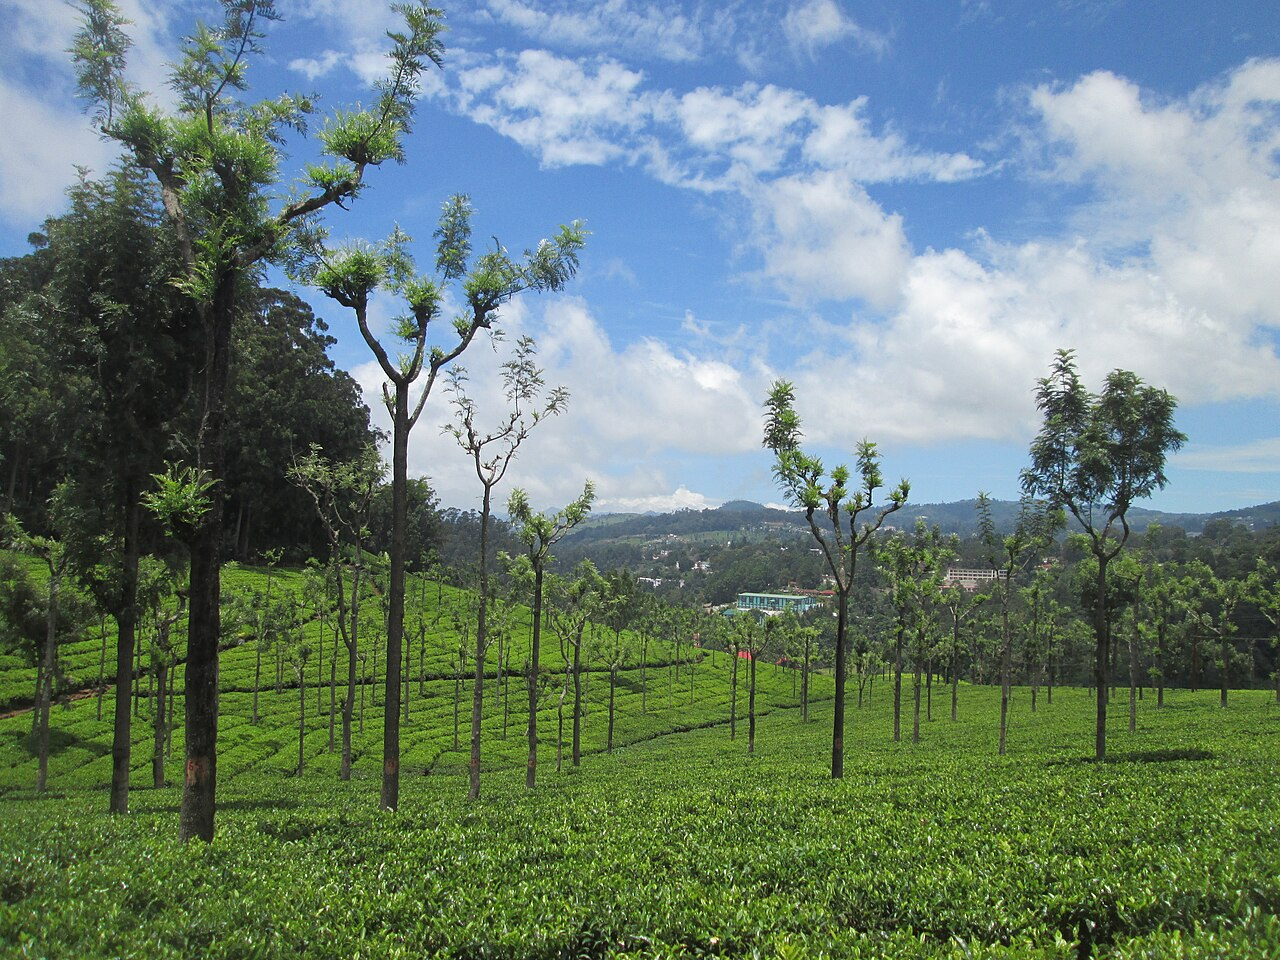
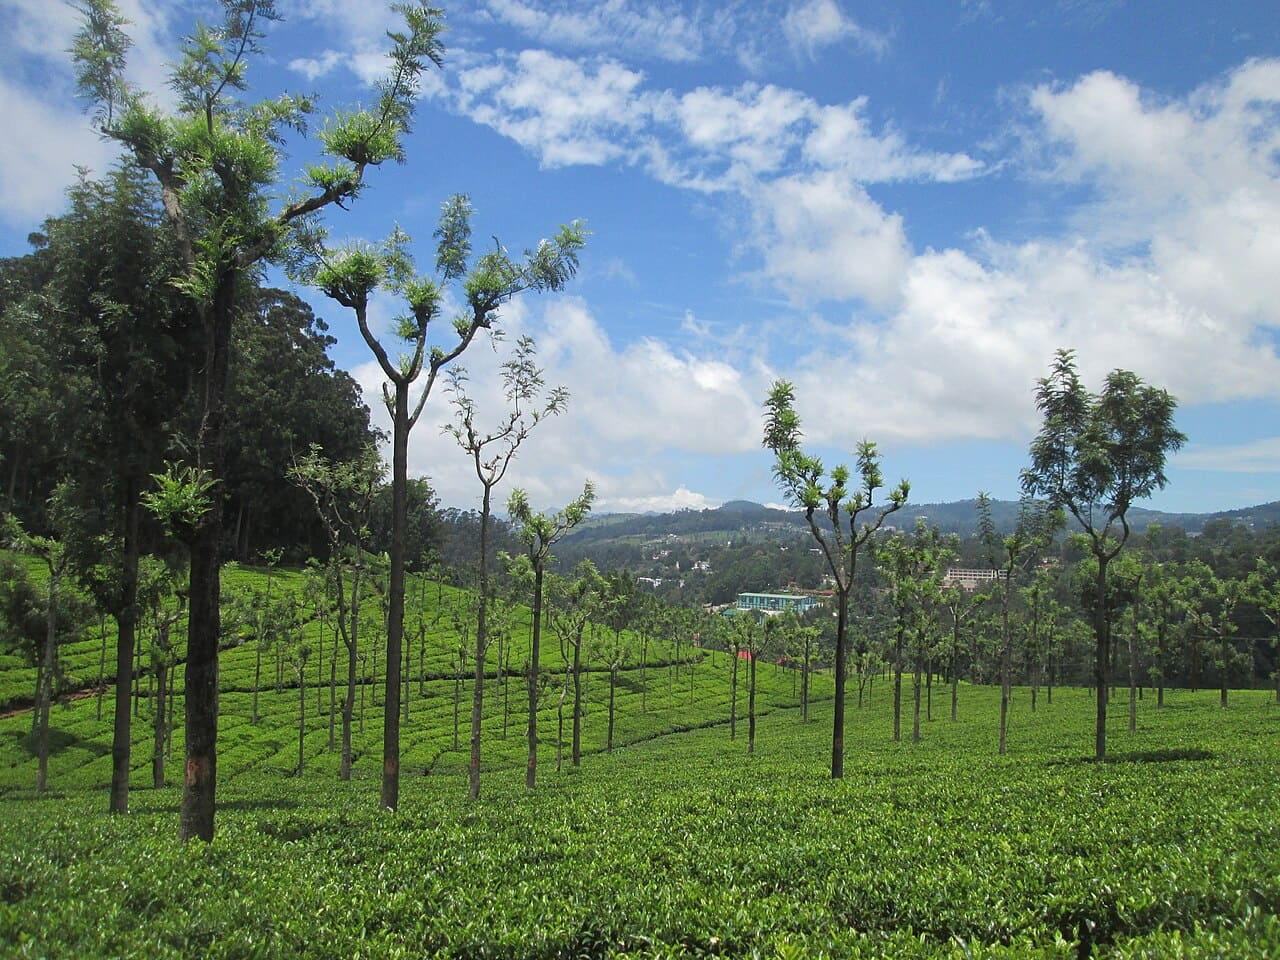
Add tour packages section with SEO route lists to homepage
Six destination cards (Madurai, Rameswaram, Chennai, Coimbatore,
Kerala, Trichy) with keyword-rich route lists; Kerala and Trichy
link to the booking form until their pages are ready.

Changed region(s): [[0.625, 0.5, 0.6562, 0.5312], [0.5312, 0.8125, 0.5625, 0.8438]]

diff --git a/index.html b/index.html
@@ -504,6 +504,162 @@
       </div>
     </section>
 
+    <!-- tour packages -->
+    <section class="mb-5" id="tour-packages">
+      <div class="container">
+        <h2 class="text-center mb-4">Our Tour Packages</h2>
+        <div class="row">
+          <!-- Madurai Tour Packages -->
+          <div class="col-md-4 mb-4">
+            <div class="card h-100">
+              <a href="https://maduraimurugantoursandtravels.com/madurai-to-rameshwaram-tour-package">
+                <img src="https://maduraimurugantoursandtravels.com/assets/images/madurai.jpg" class="card-img-top" alt="Madurai Tour Packages" />
+              </a>
+              <div class="card-body d-flex flex-column justify-content-between">
+                <div>
+                  <h5 class="card-title">
+                    <a href="https://maduraimurugantoursandtravels.com/madurai-to-rameshwaram-tour-package" style="color: inherit">Madurai Tour Packages</a>
+                  </h5>
+                  <p class="card-text mb-2">Popular tours and cab services from the temple city:</p>
+                  <ul class="card-text pl-3 mb-2">
+                    <li>Madurai to Rameswaram cab</li>
+                    <li>Madurai Meenakshi Amman Temple tour</li>
+                    <li>Madurai Airport to Rameswaram</li>
+                    <li>Madurai Railway Station to Rameswaram</li>
+                  </ul>
+                </div>
+                <a href="https://maduraimurugantoursandtravels.com/madurai-to-rameshwaram-tour-package">
+                  <button class="btn mt-2 w-100 bookNowButton">View Packages &rarr;</button>
+                </a>
+              </div>
+            </div>
+          </div>
+
+          <!-- Rameswaram Tour Packages -->
+          <div class="col-md-4 mb-4">
+            <div class="card h-100">
+              <a href="https://maduraimurugantoursandtravels.com/madurai-to-rameshwaram-tour-package">
+                <img src="https://maduraimurugantoursandtravels.com/assets/images/rameswaram.jpg" class="card-img-top" alt="Rameswaram Tour Packages" />
+              </a>
+              <div class="card-body d-flex flex-column justify-content-between">
+                <div>
+                  <h5 class="card-title">
+                    <a href="https://maduraimurugantoursandtravels.com/madurai-to-rameshwaram-tour-package" style="color: inherit">Rameswaram Tour Packages</a>
+                  </h5>
+                  <p class="card-text mb-2">Comfortable pilgrimage tours to the holy island:</p>
+                  <ul class="card-text pl-3 mb-2">
+                    <li>Madurai to Rameswaram tour package</li>
+                    <li>Ramanathaswamy Temple darshan cab</li>
+                    <li>Rameswaram to Dhanushkodi sightseeing</li>
+                    <li>Pamban Bridge and Rameswaram local tour</li>
+                  </ul>
+                </div>
+                <a href="https://maduraimurugantoursandtravels.com/madurai-to-rameshwaram-tour-package">
+                  <button class="btn mt-2 w-100 bookNowButton">View Packages &rarr;</button>
+                </a>
+              </div>
+            </div>
+          </div>
+
+          <!-- Chennai Tour Packages -->
+          <div class="col-md-4 mb-4">
+            <div class="card h-100">
+              <a href="https://maduraimurugantoursandtravels.com/chennai-tour-packages">
+                <img src="https://maduraimurugantoursandtravels.com/assets/images/chennai.jpg" class="card-img-top" alt="Chennai Tour Packages" />
+              </a>
+              <div class="card-body d-flex flex-column justify-content-between">
+                <div>
+                  <h5 class="card-title">
+                    <a href="https://maduraimurugantoursandtravels.com/chennai-tour-packages" style="color: inherit">Chennai Tour Packages</a>
+                  </h5>
+                  <p class="card-text mb-2">Tours and cab services from Chennai:</p>
+                  <ul class="card-text pl-3 mb-2">
+                    <li>Chennai to Tirupati tour package</li>
+                    <li>Chennai to Pondicherry cab</li>
+                    <li>Chennai to Mahabalipuram &amp; Kanchipuram tour</li>
+                    <li>Chennai local sightseeing tour</li>
+                  </ul>
+                </div>
+                <a href="https://maduraimurugantoursandtravels.com/chennai-tour-packages">
+                  <button class="btn mt-2 w-100 bookNowButton">View Packages &rarr;</button>
+                </a>
+              </div>
+            </div>
+          </div>
+
+          <!-- Coimbatore Tour Packages -->
+          <div class="col-md-4 mb-4">
+            <div class="card h-100">
+              <a href="https://maduraimurugantoursandtravels.com/coimbatore-tour-package">
+                <img src="https://maduraimurugantoursandtravels.com/assets/images/coimbatore.jpg" class="card-img-top" alt="Coimbatore Tour Packages" />
+              </a>
+              <div class="card-body d-flex flex-column justify-content-between">
+                <div>
+                  <h5 class="card-title">
+                    <a href="https://maduraimurugantoursandtravels.com/coimbatore-tour-package" style="color: inherit">Coimbatore Tour Packages</a>
+                  </h5>
+                  <p class="card-text mb-2">Tours and cab services from Coimbatore:</p>
+                  <ul class="card-text pl-3 mb-2">
+                    <li>Coimbatore to Ooty tour package</li>
+                    <li>Coimbatore to Coonoor cab</li>
+                    <li>Coimbatore to Isha Adiyogi temple visit</li>
+                    <li>Coimbatore local sightseeing tour</li>
+                  </ul>
+                </div>
+                <a href="https://maduraimurugantoursandtravels.com/coimbatore-tour-package">
+                  <button class="btn mt-2 w-100 bookNowButton">View Packages &rarr;</button>
+                </a>
+              </div>
+            </div>
+          </div>
+
+          <!-- Kerala Tour Packages (page coming soon - link when ready) -->
+          <div class="col-md-4 mb-4">
+            <div class="card h-100">
+              <img src="https://maduraimurugantoursandtravels.com/assets/images/munnar.jpg" class="card-img-top" alt="Kerala Tour Packages" />
+              <div class="card-body d-flex flex-column justify-content-between">
+                <div>
+                  <h5 class="card-title">Kerala Tour Packages</h5>
+                  <p class="card-text mb-2">Kerala tour packages from Madurai:</p>
+                  <ul class="card-text pl-3 mb-2">
+                    <li>Madurai to Munnar tour package</li>
+                    <li>Madurai to Thekkady wildlife tour</li>
+                    <li>Alleppey houseboat &amp; backwaters tour</li>
+                    <li>Cochin &amp; Kerala round trip cab</li>
+                  </ul>
+                </div>
+                <a href="#bookNow">
+                  <button class="btn mt-2 w-100 bookNowButton"><i class="fa-solid fa-phone phone-icon mr-3"></i>Enquire Now</button>
+                </a>
+              </div>
+            </div>
+          </div>
+
+          <!-- Trichy Tour Packages (page coming soon - link when ready) -->
+          <div class="col-md-4 mb-4">
+            <div class="card h-100">
+              <img src="https://maduraimurugantoursandtravels.com/assets/images/trichy.jpg" class="card-img-top" alt="Trichy Tour Packages" />
+              <div class="card-body d-flex flex-column justify-content-between">
+                <div>
+                  <h5 class="card-title">Trichy Tour Packages</h5>
+                  <p class="card-text mb-2">Temple tours and cab services in Trichy:</p>
+                  <ul class="card-text pl-3 mb-2">
+                    <li>Madurai to Trichy cab</li>
+                    <li>Srirangam Ranganathaswamy Temple tour</li>
+                    <li>Trichy Rockfort Temple visit</li>
+                    <li>Trichy Airport pickup &amp; drop</li>
+                  </ul>
+                </div>
+                <a href="#bookNow">
+                  <button class="btn mt-2 w-100 bookNowButton"><i class="fa-solid fa-phone phone-icon mr-3"></i>Enquire Now</button>
+                </a>
+              </div>
+            </div>
+          </div>
+        </div>
+      </div>
+    </section>
+
     <!-- tour places -->
     <section class="mb-5" id="tour-package">
       <h2 class="text-center mb-4">Madurai Tourist Places</h2>